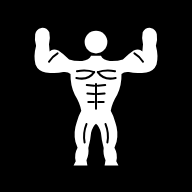
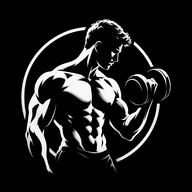
Icono nuevo: el diseño de Manuel (culturista con mancuerna)
- Iconos de la app, favicon y logo junto al título a partir de su imagen,
  sin el borde gris del cuadrado y con margen para Android.
- sw.js: versión fitall-v16.

Claude-Session: https://claude.ai/code/session_017oW4PzFYQrVJX3SWZ286Y3

Changed region(s): [[0.0938, 0.0938, 0.9062, 0.9062], [0.2812, 0.5625, 0.3125, 0.5938]]

diff --git a/index.html b/index.html
@@ -288,7 +288,7 @@ h3{font-size:17px}
 .top{align-items:center}
 .phase{max-width:48%;font-size:12px;line-height:1.3}
 .phase b{font-family:var(--f-display);font-weight:800;font-size:15px;line-height:1.15;margin-bottom:2px}
-.logo{width:46px;height:46px;border-radius:13px;flex:none;border:1px solid rgba(255,255,255,.14);box-shadow:0 0 18px rgba(57,255,20,.18),0 4px 14px rgba(0,0,0,.6)}
+.logo{width:46px;height:46px;border-radius:13px;flex:none;object-fit:cover;background:#000;border:1px solid rgba(255,255,255,.14);box-shadow:0 0 18px rgba(57,255,20,.18),0 4px 14px rgba(0,0,0,.6)}
 .top{border-bottom:0;padding-bottom:14px;background:linear-gradient(#000 78%,rgba(0,0,0,0))}
 .card{background:linear-gradient(180deg,#202024 0%,#1a1a1d 100%);border:1px solid rgba(255,255,255,.07);border-radius:var(--r);padding:16px;box-shadow:0 10px 30px rgba(0,0,0,.35),inset 0 1px 0 rgba(255,255,255,.04)}
 .stack{gap:16px}
@@ -358,8 +358,7 @@ input.tx,select.tx,textarea.tx{font-size:16px!important}
 <div class="wrap">
   <header class="top">
     <div class="brand-w">
-      <svg class="logo" viewBox="0 0 100 100" aria-hidden="true"><rect width="100" height="100" fill="#000"/><g transform="translate(50,51) scale(0.8) translate(-50,-55)"><g fill="#fff"><circle cx="50" cy="18.6" r="7.4"/><path d="M50,27.5 L53.2,27.5 Q54.5,30.2 59,31 Q64,31.2 67.5,30 Q71,26.5 74.5,24.2 Q78,22.4 80.2,24.8 L80.6,20 Q79.6,15.6 80.4,12.2 Q82.2,9 85.6,9.4 Q89,10.2 89.6,13.6 Q90.2,17.6 89,21 Q90.8,27.6 89.4,33.2 Q87.6,37.6 82.8,38.4 Q76.2,39.4 71.4,38.2 Q68.4,37.8 66.6,39.4 Q66.8,46.6 63.8,53 Q60.4,58.6 59.6,63.4 Q61.6,67 62.6,71 Q64.8,77.4 63.4,83.6 L62,87.4 Q64.4,91.6 63.2,96.2 L64.6,99 L55.6,99 L56.2,95.6 Q54.4,91.4 55,87.6 Q53.6,82.4 53.2,77.6 Q52.2,73.6 50,71.8 Z"/><path d="M50,27.5 L53.2,27.5 Q54.5,30.2 59,31 Q64,31.2 67.5,30 Q71,26.5 74.5,24.2 Q78,22.4 80.2,24.8 L80.6,20 Q79.6,15.6 80.4,12.2 Q82.2,9 85.6,9.4 Q89,10.2 89.6,13.6 Q90.2,17.6 89,21 Q90.8,27.6 89.4,33.2 Q87.6,37.6 82.8,38.4 Q76.2,39.4 71.4,38.2 Q68.4,37.8 66.6,39.4 Q66.8,46.6 63.8,53 Q60.4,58.6 59.6,63.4 Q61.6,67 62.6,71 Q64.8,77.4 63.4,83.6 L62,87.4 Q64.4,91.6 63.2,96.2 L64.6,99 L55.6,99 L56.2,95.6 Q54.4,91.4 55,87.6 Q53.6,82.4 53.2,77.6 Q52.2,73.6 50,71.8 Z" transform="translate(100,0) scale(-1,1)"/></g>
-    <g fill="none" stroke="#000" stroke-width="1.3" stroke-linecap="round"><path d="M51.2,38.2 Q56,36.6 62.4,37.6"/><path d="M51.2,38.2 Q55,43.8 62.8,42"/><path d="M51.2,47 L56,46.6"/><path d="M51.2,52.4 L55.6,52.2"/><path d="M51.4,57.6 L55,57.6"/><path d="M75,26 Q78.6,28.2 80.6,31.4"/><path d="M56.2,72 Q58.6,78 57.4,84"/><g transform="translate(100,0) scale(-1,1)"><path d="M51.2,38.2 Q56,36.6 62.4,37.6"/><path d="M51.2,38.2 Q55,43.8 62.8,42"/><path d="M51.2,47 L56,46.6"/><path d="M51.2,52.4 L55.6,52.2"/><path d="M51.4,57.6 L55,57.6"/><path d="M75,26 Q78.6,28.2 80.6,31.4"/><path d="M56.2,72 Q58.6,78 57.4,84"/></g><path d="M50,46 L50,62"/></g></g></svg>
+      <img class="logo" src="icons/logo.png" alt="" width="46" height="46">
       <div class="brand">
         <span class="eyebrow" id="eyebrow">Entreno y dieta</span>
         <h1>FIT-ALL</h1>

diff --git a/sw.js b/sw.js
@@ -1,6 +1,6 @@
 // FIT-ALL: funciona sin conexión. Cambia VERSION al publicar una versión nueva.
-const VERSION = "fitall-v15";
-const BASE = ["./", "./index.html", "./manifest.webmanifest", "./alimentos-es.js", "./ejercicios.js", "./vendor/zxing-browser.min.js", "./icons/icon-192.png", "./icons/icon-512.png", "./icons/apple-touch-icon.png", "./icons/favicon.png"];
+const VERSION = "fitall-v16";
+const BASE = ["./", "./index.html", "./manifest.webmanifest", "./alimentos-es.js", "./ejercicios.js", "./vendor/zxing-browser.min.js", "./icons/icon-192.png", "./icons/icon-512.png", "./icons/apple-touch-icon.png", "./icons/favicon.png", "./icons/logo.png"];
 
 self.addEventListener("install", e => {
   e.waitUntil(caches.open(VERSION).then(c => c.addAll(BASE)));
